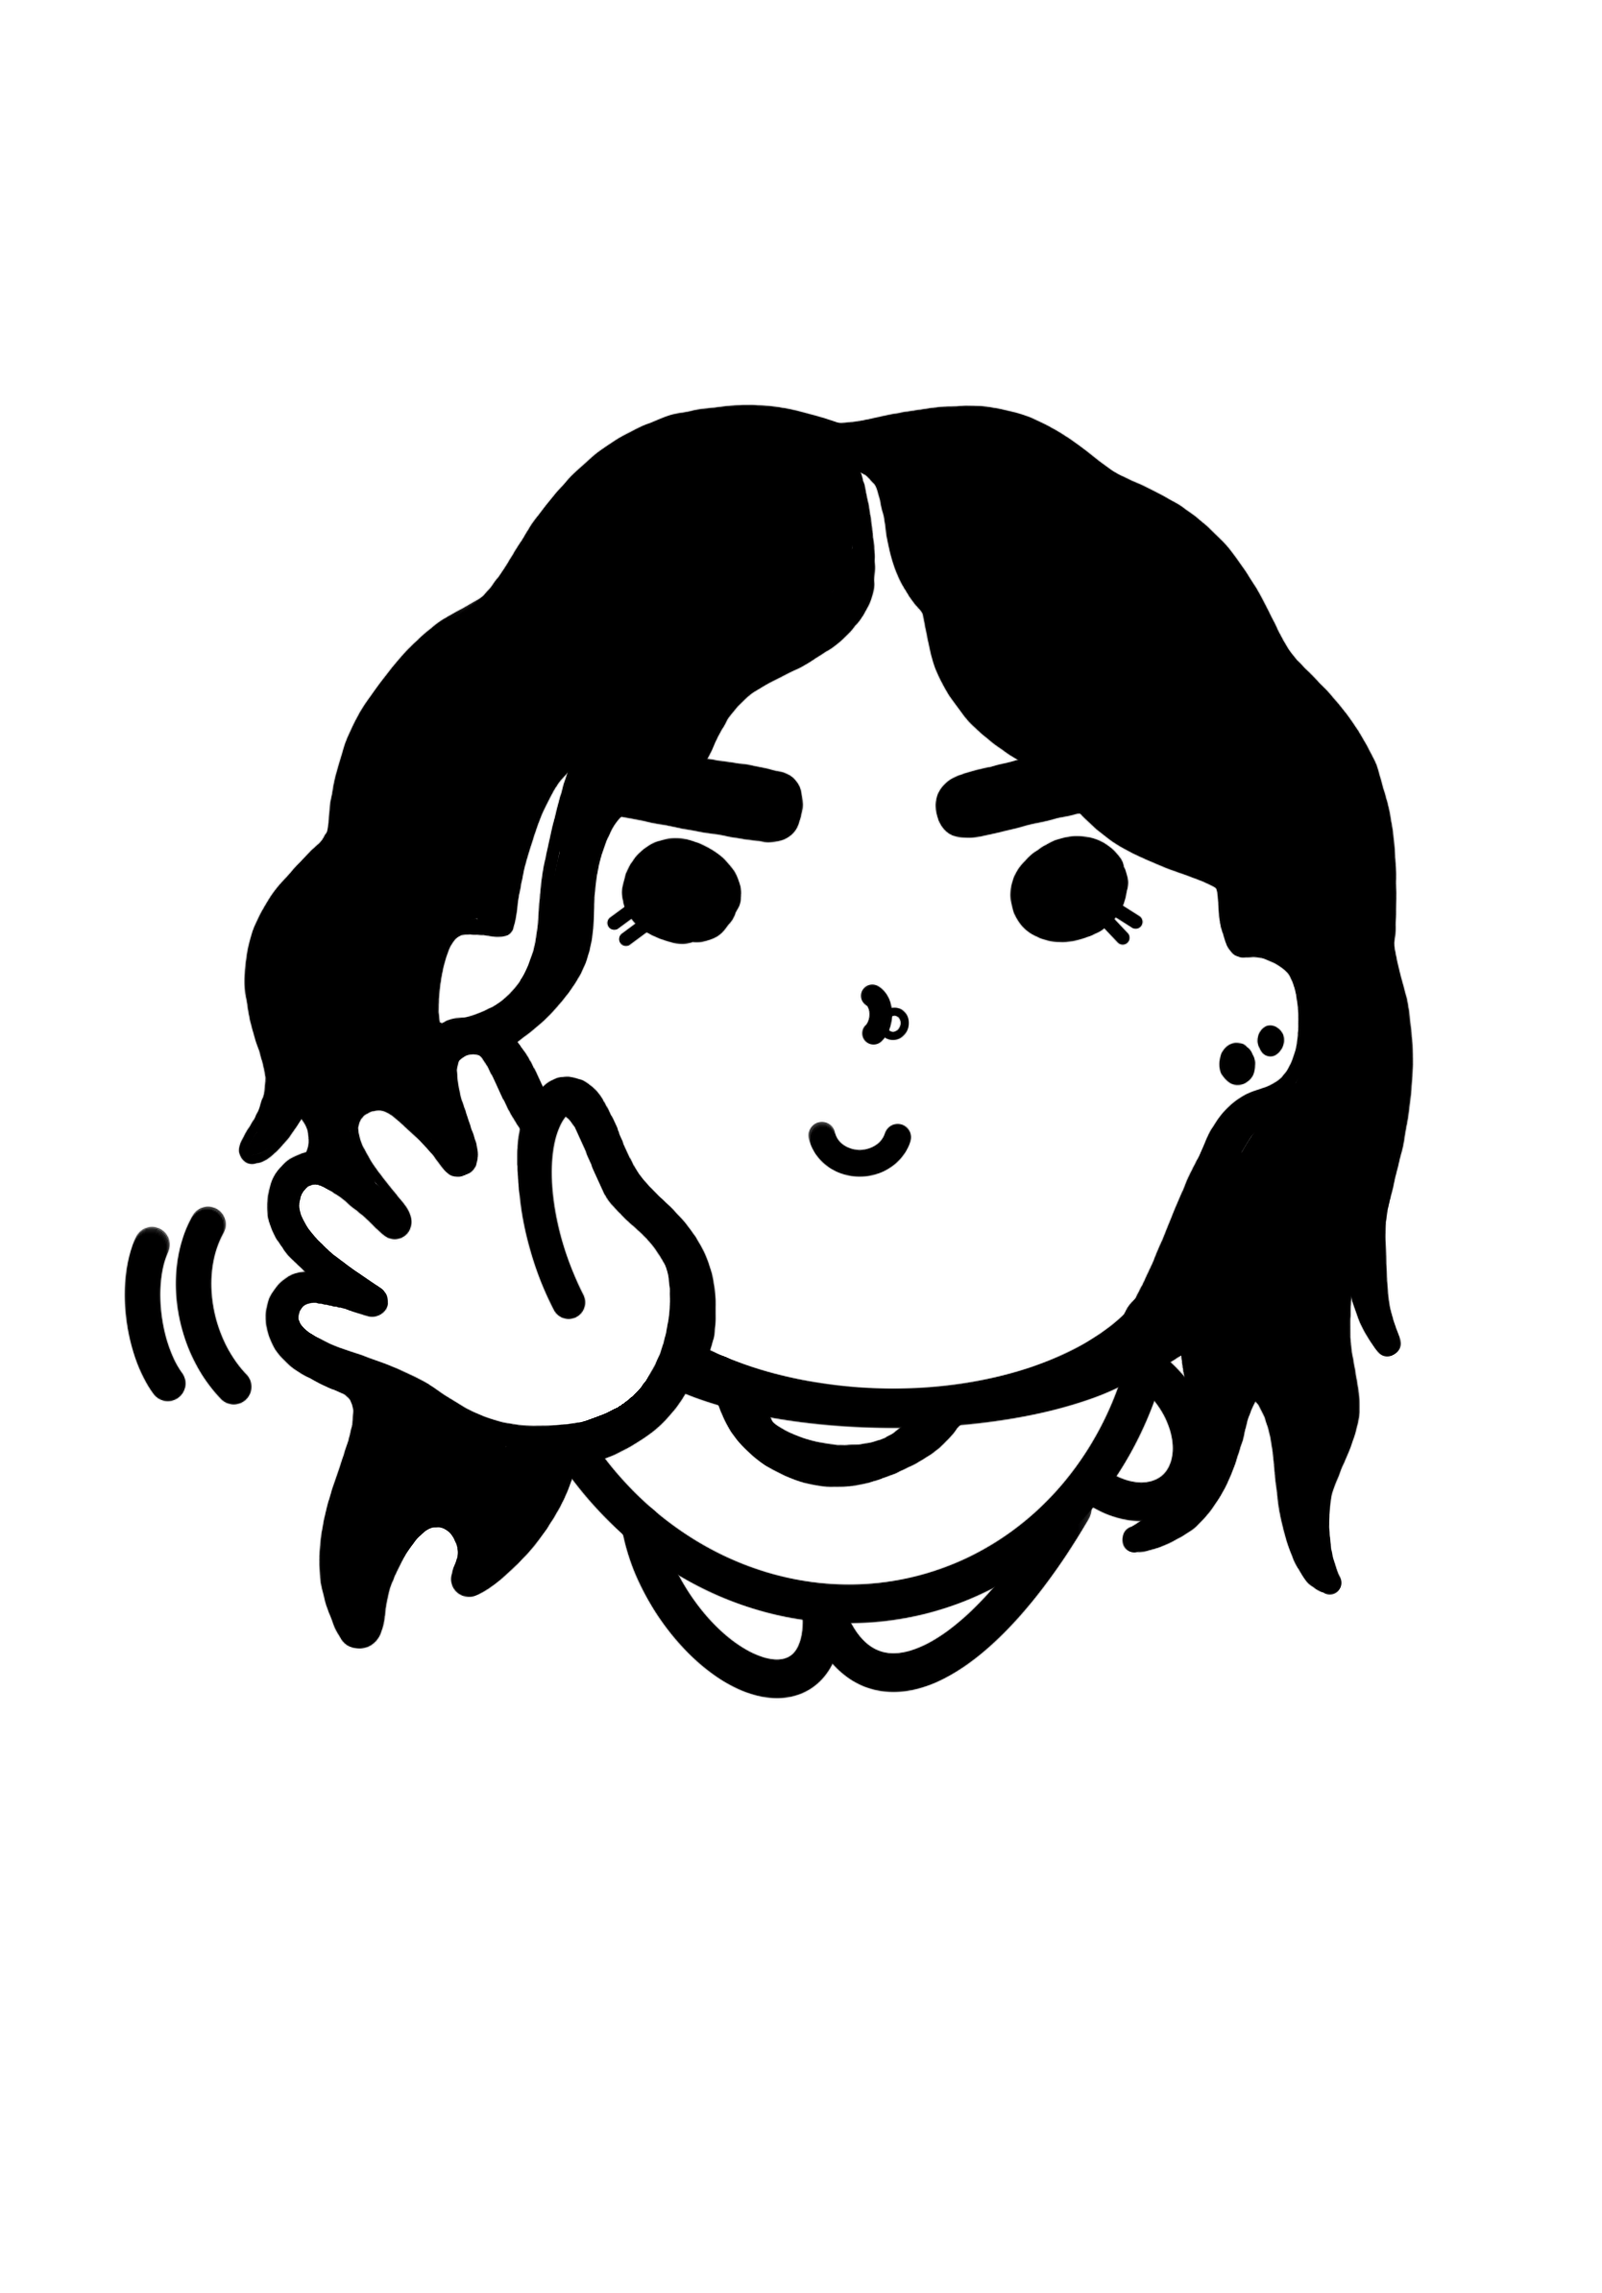
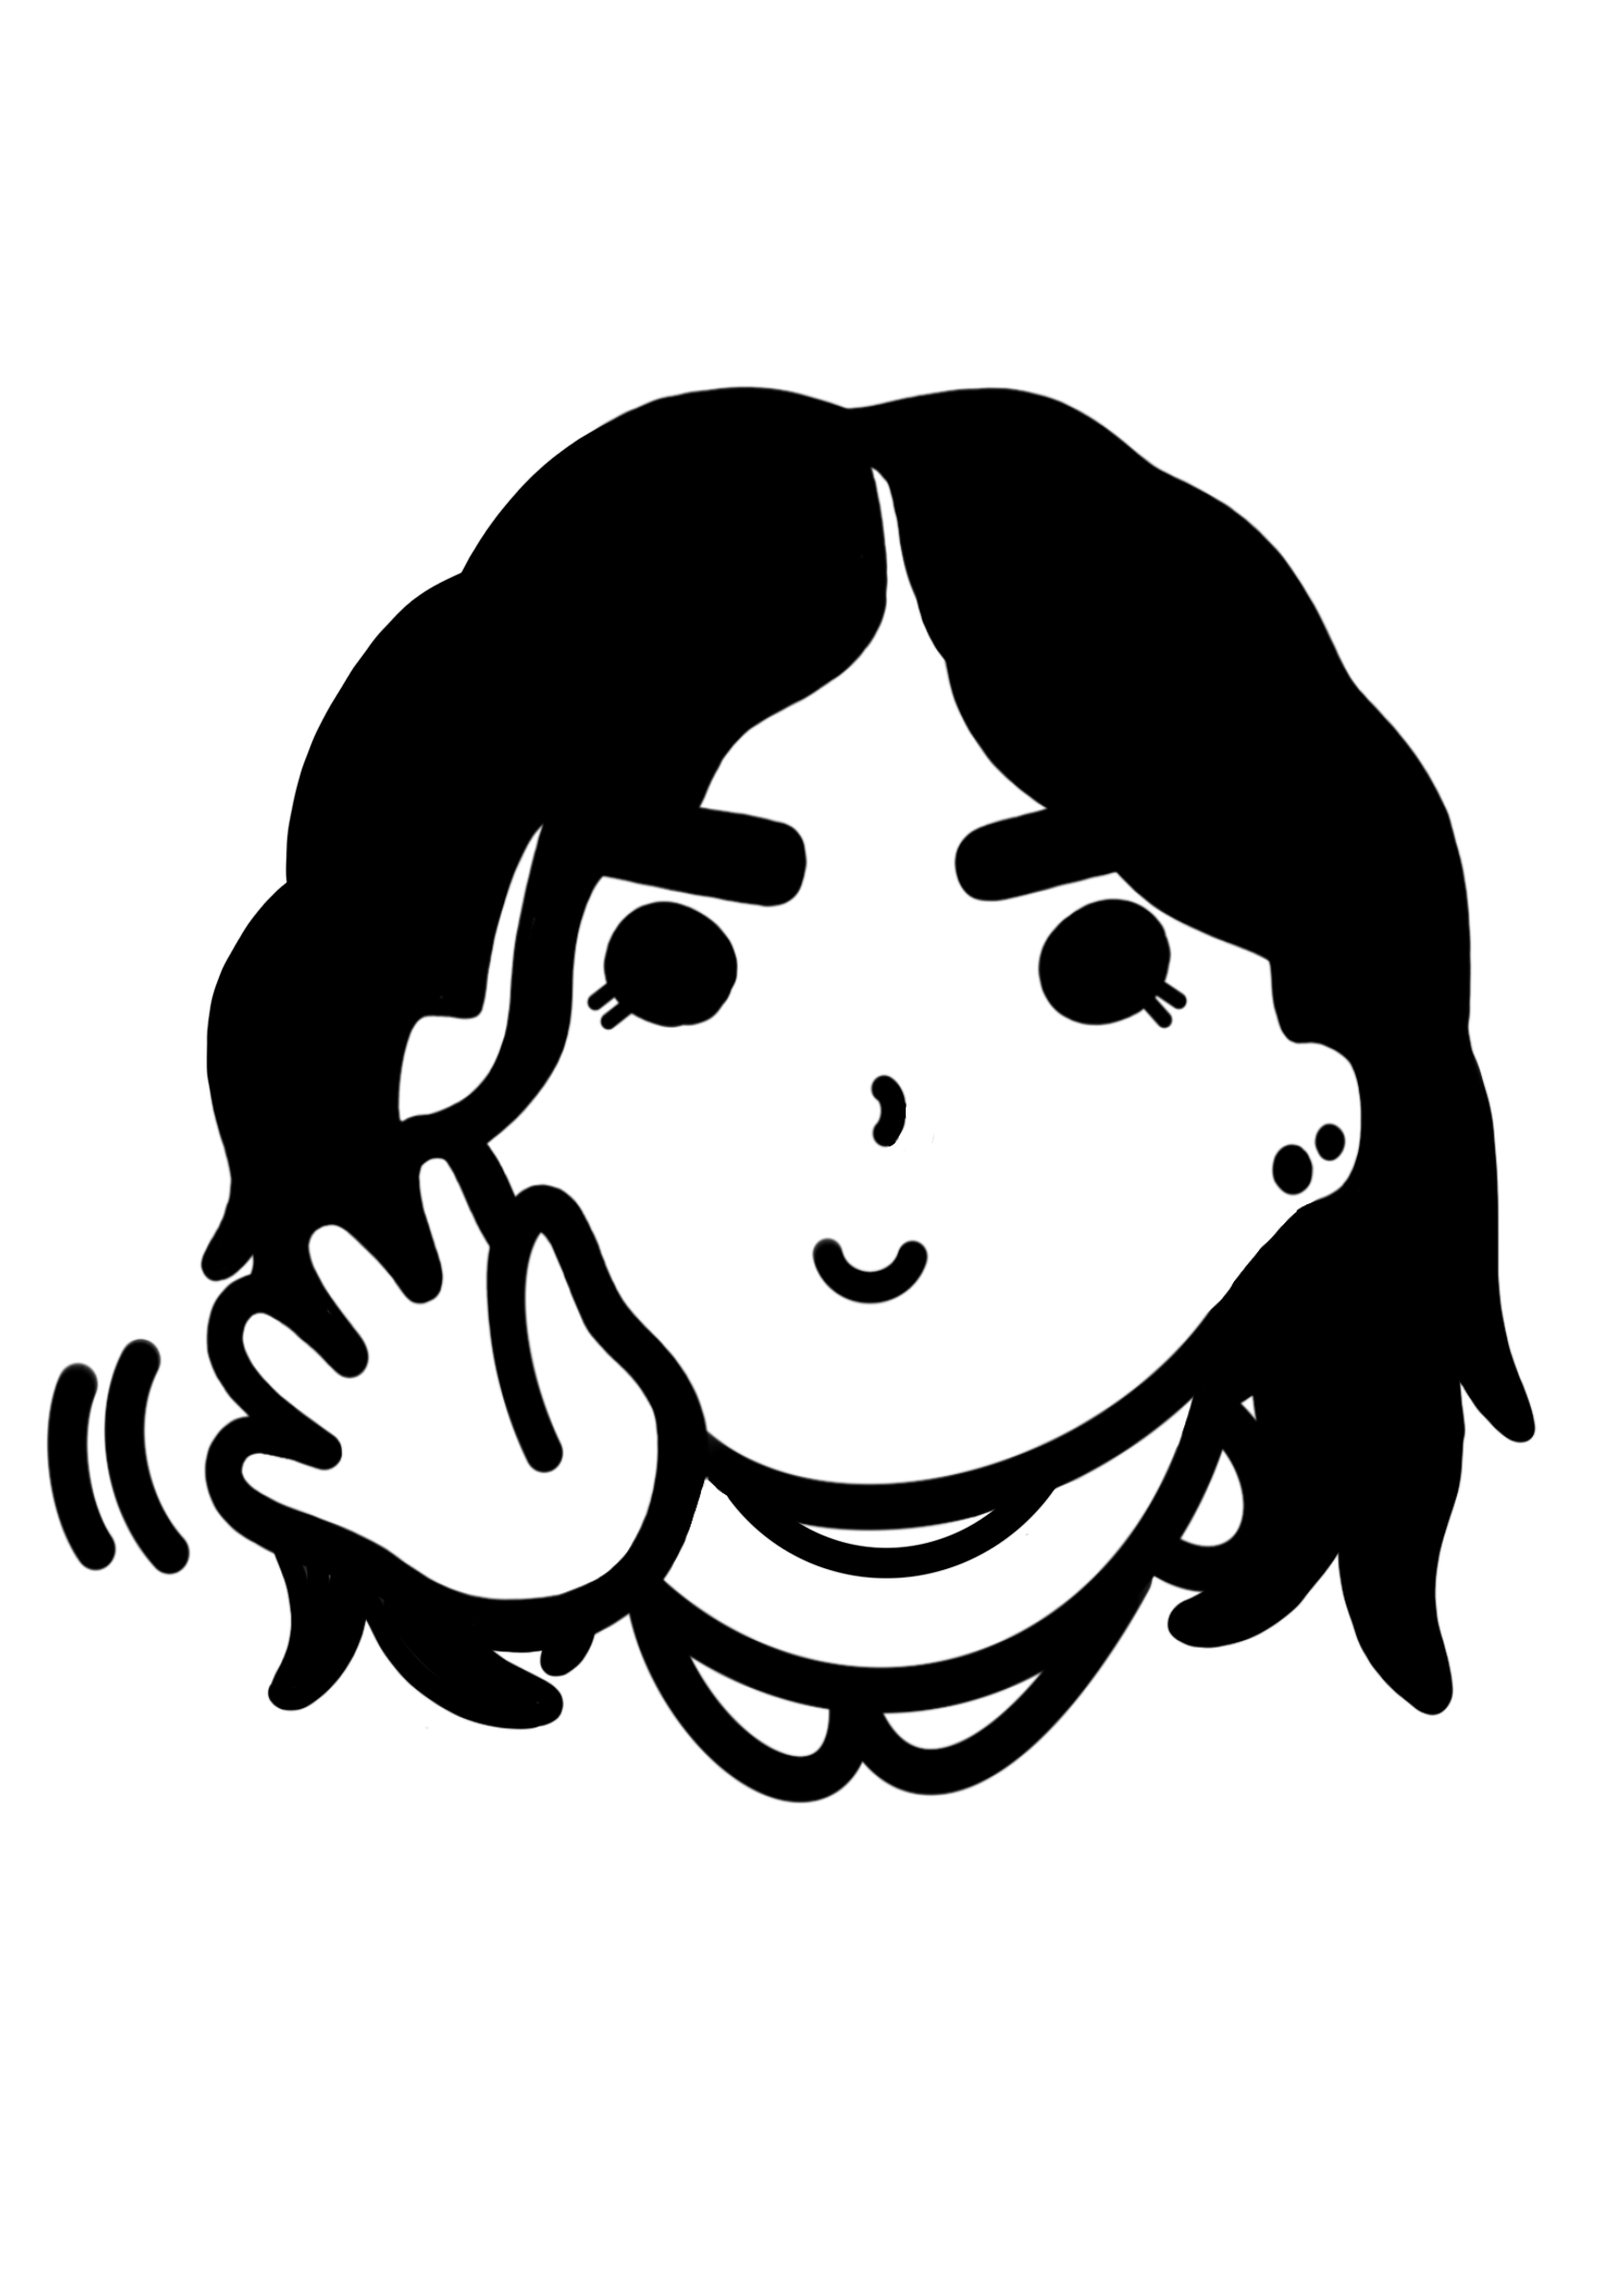
updating portfolio

Changed region(s): [[0.0312, 0.1549, 0.9664, 0.8057]]

diff --git a/docs/index.html b/docs/index.html
@@ -20,7 +20,7 @@
             </nav>
         </header>  
         
-        <img src=" images/rashewave1.png" class="hello-img"/>
+        <img src=" images/rashewave2.png" class="hello-img"/>
         
         <div class="hello">
             <div class="hello-text">
